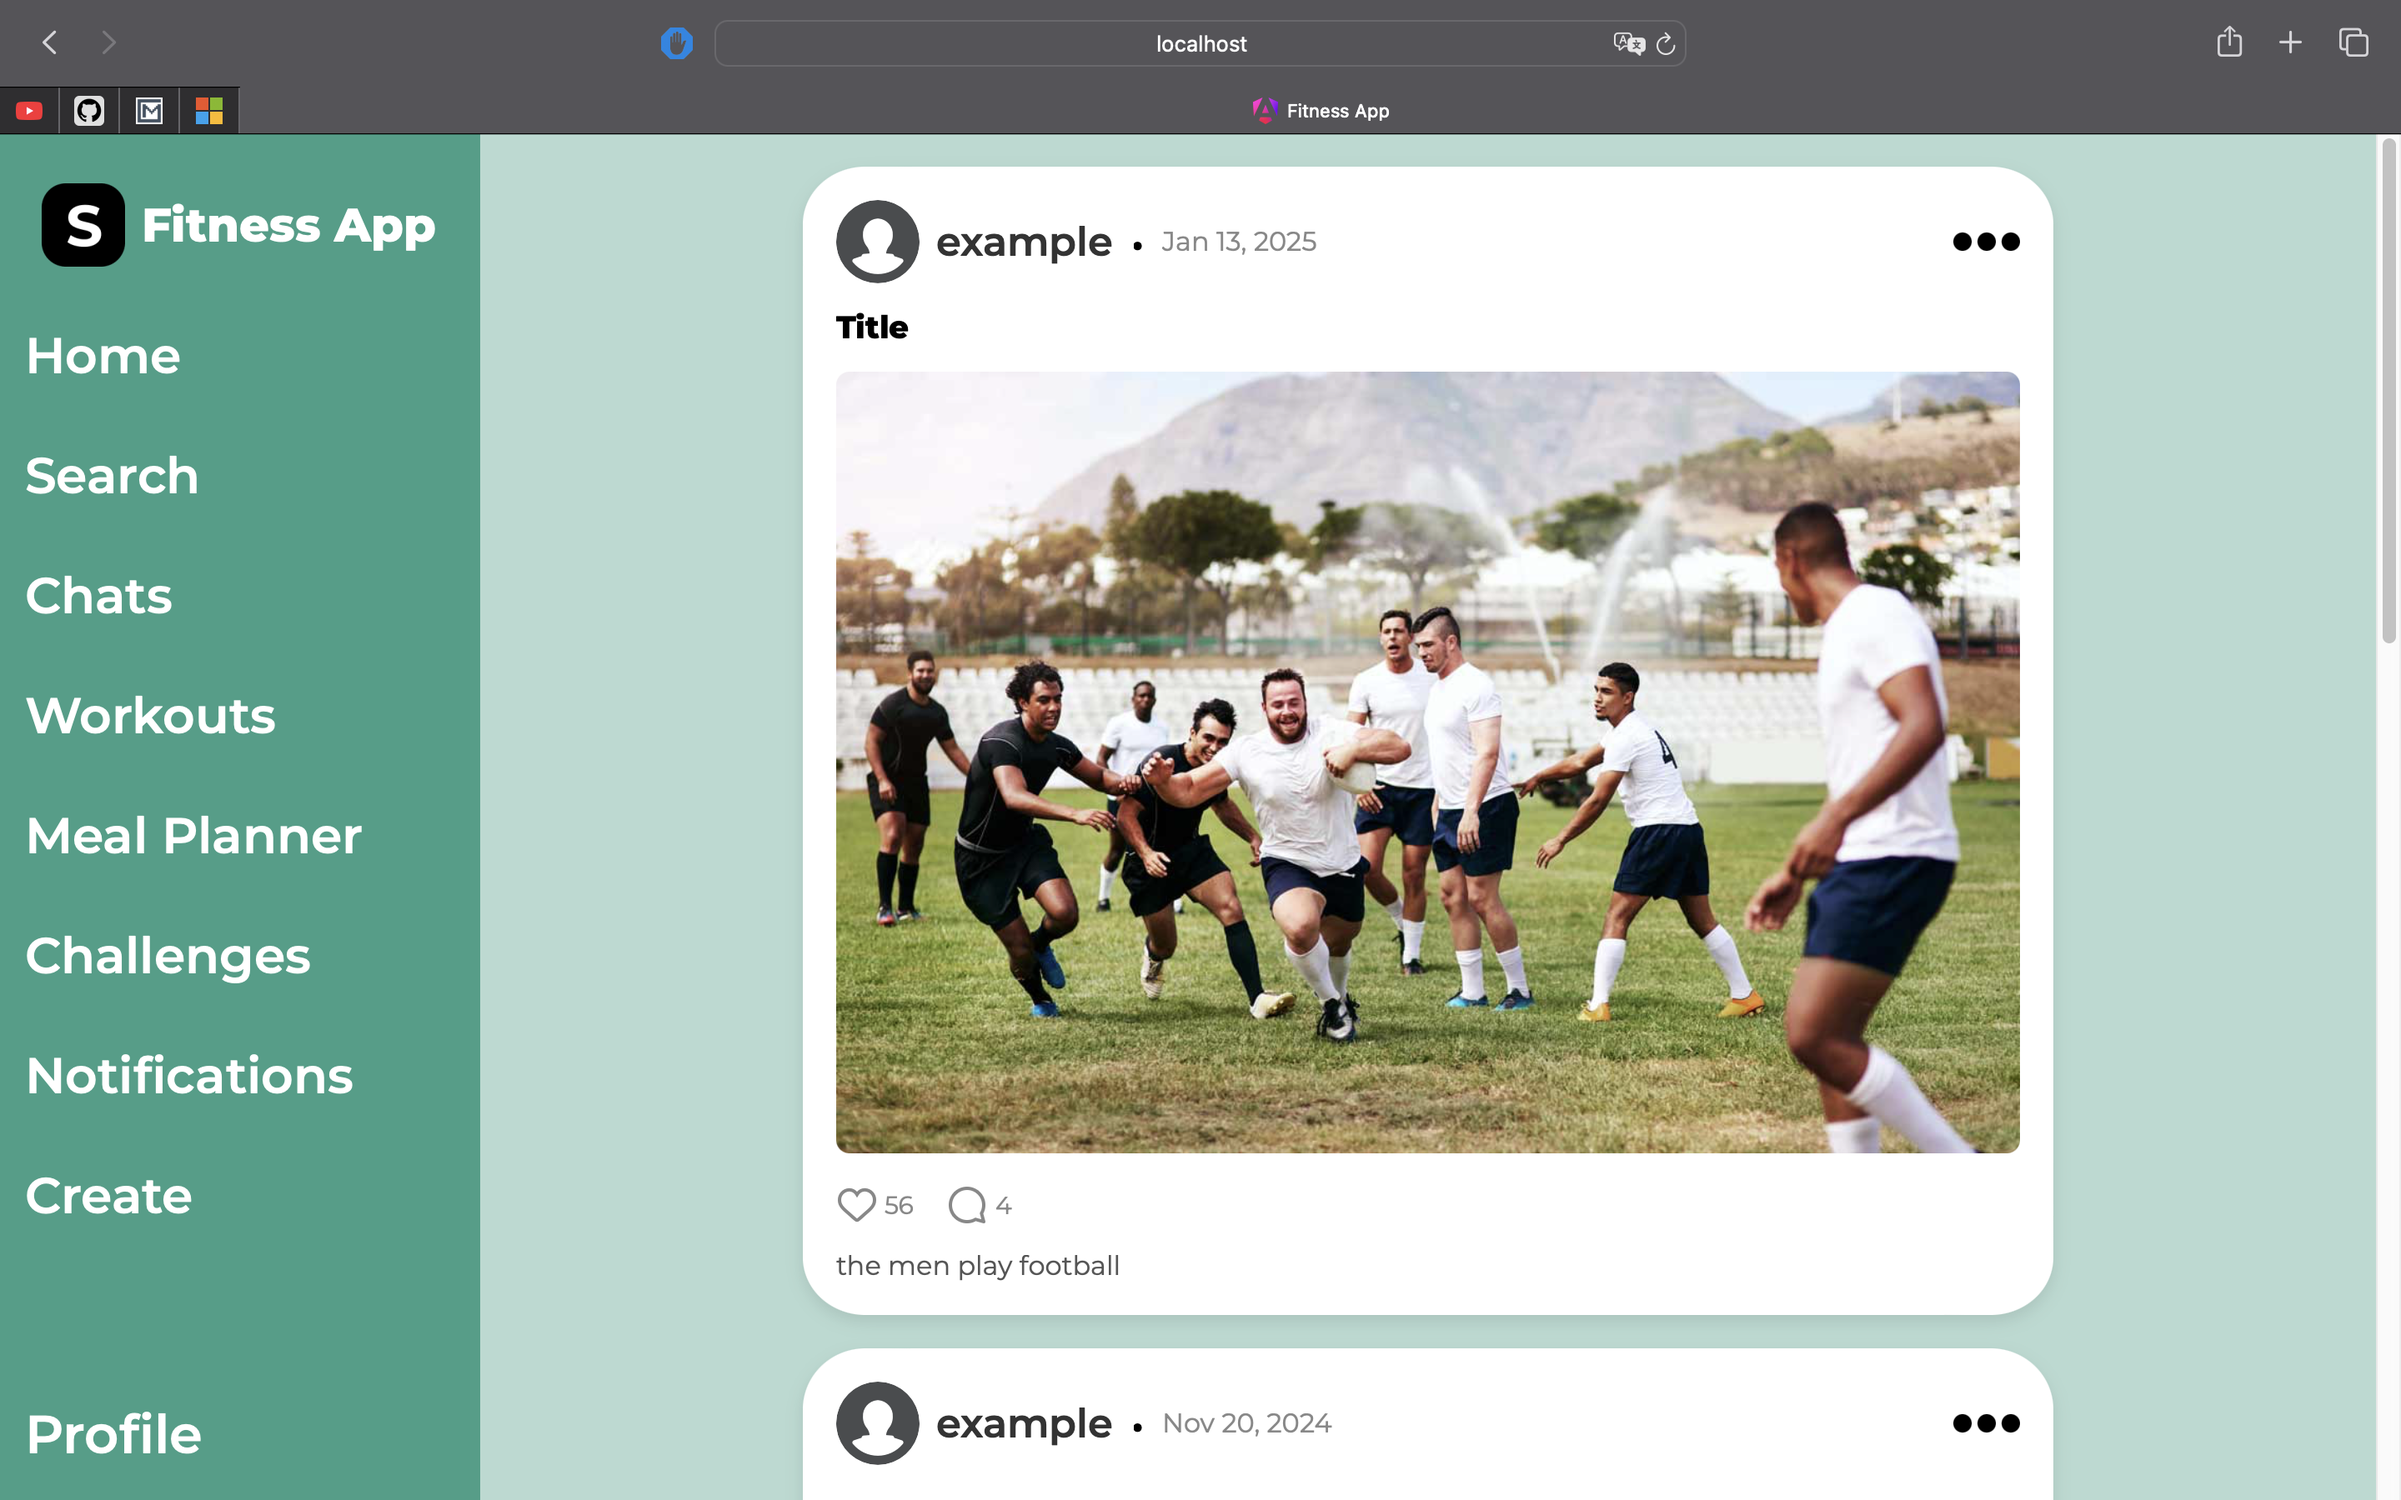
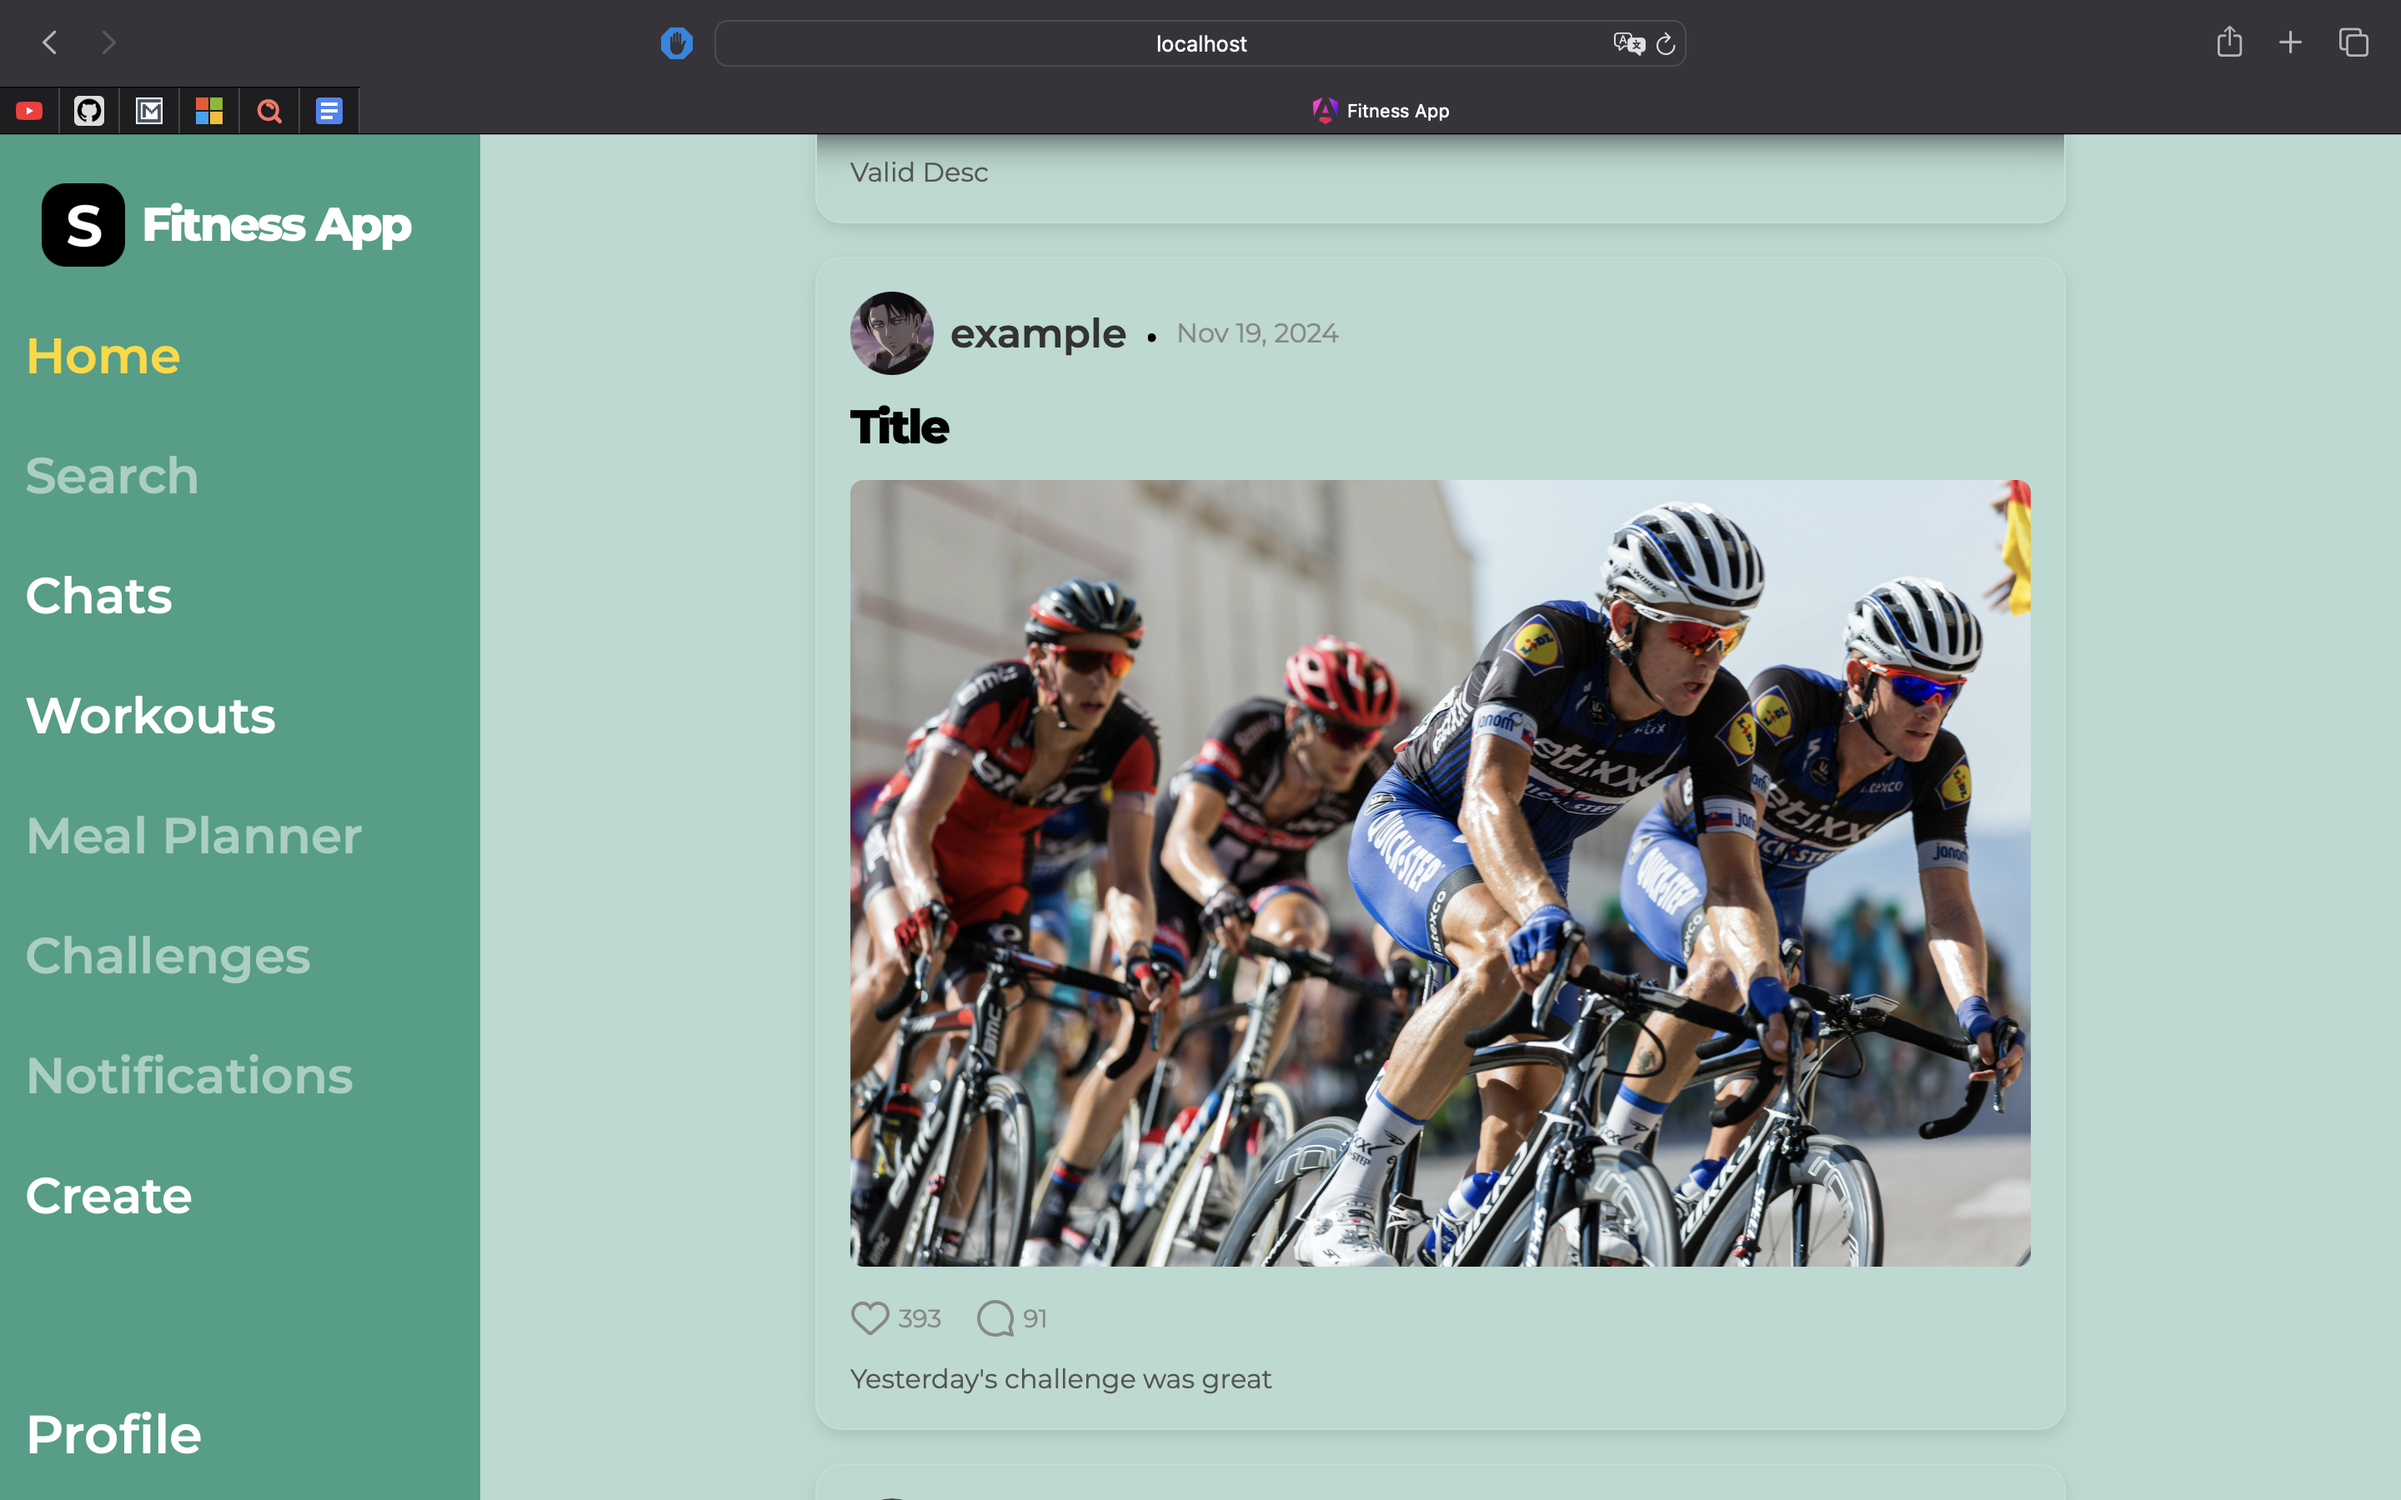
Add profile page image to README and update home image

diff --git a/README.md b/README.md
@@ -80,6 +80,9 @@ Use the provided `docker-compose.yml` to set up the infrastructure:
 - **Chats**
 <img src="./img/chats.png" alt="Fitness App Chats Page" />
 
+- **Profile**
+<img src="./img/profile.png" alt="Fitness App Profile Page" />
+
 ---
 
 ## Technology Stack
@@ -119,5 +122,4 @@ Use the provided `docker-compose.yml` to set up the infrastructure:
 
 ## Future Plans
 
-- **Kubernetes Support:** Planned deployment and orchestration.
 - **Azure Deployment:** Deploy the app on Azure
